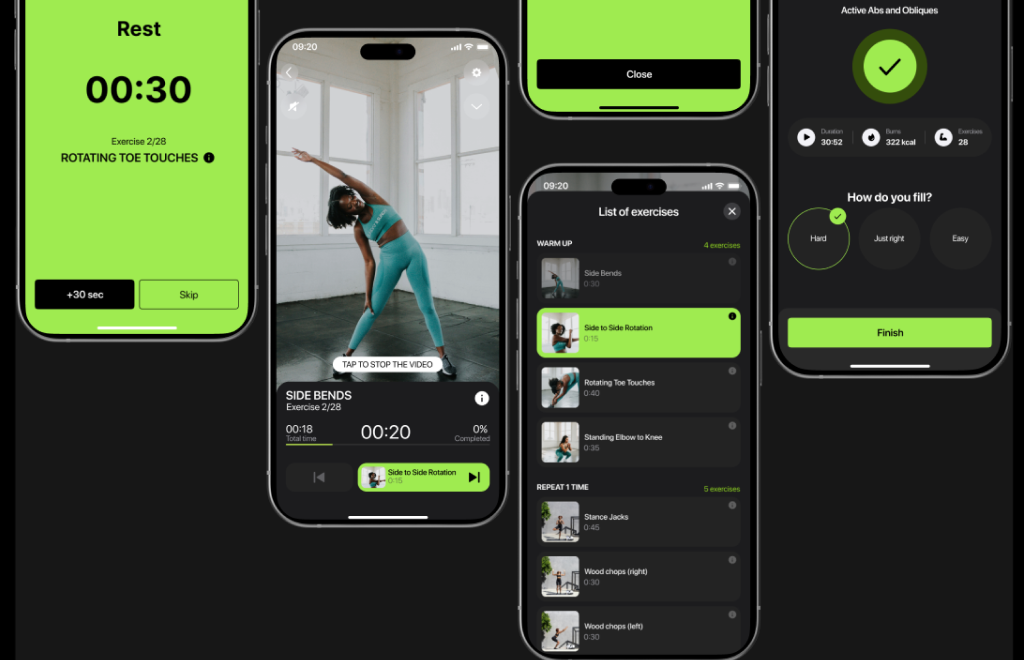
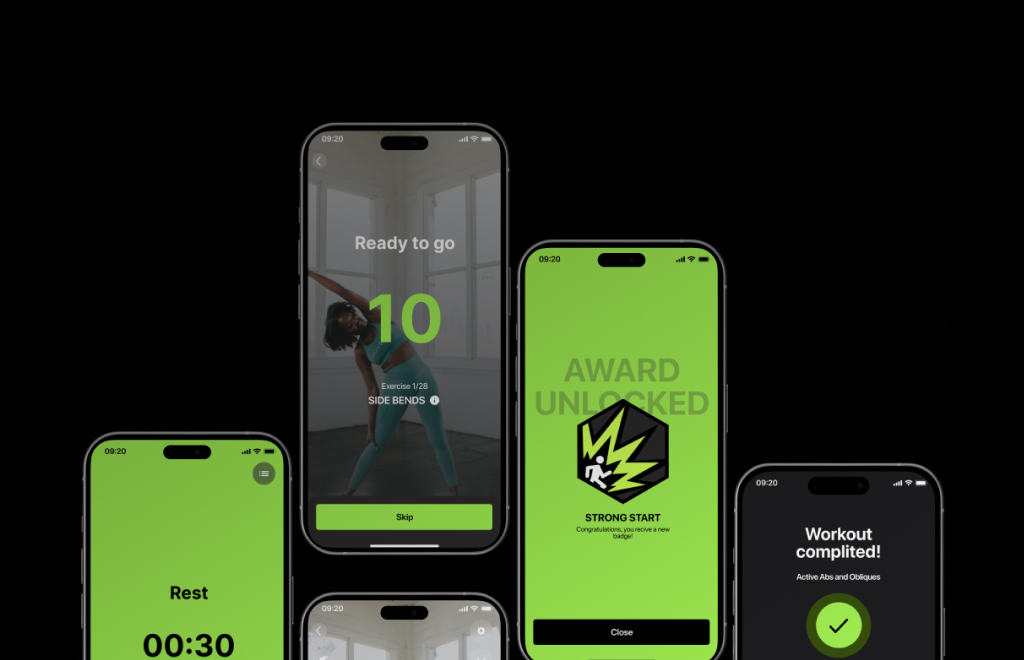
Update wedo + add Blog/How asset folders; wire How step 03 image
- public/wedo/branding.png, web.png re-exported
- public/Blog/ blog_01..03.png added (for upcoming blog cards)
- public/How/how_3.png wired into ProcessStack step 03 (was ART[95])

Entire-Checkpoint: 592a54306d68

diff --git a/src/components/process-stack.tsx b/src/components/process-stack.tsx
@@ -23,7 +23,7 @@ const STEPS: Step[] = [
   {
     title: "03. Design & build",
     desc: "Founders run the project end-to-end. You see progress weekly, not at the deadline.",
-    img: ART[95],
+    img: "/How/how_3.png",
   },
   {
     title: "04. Launch & after",